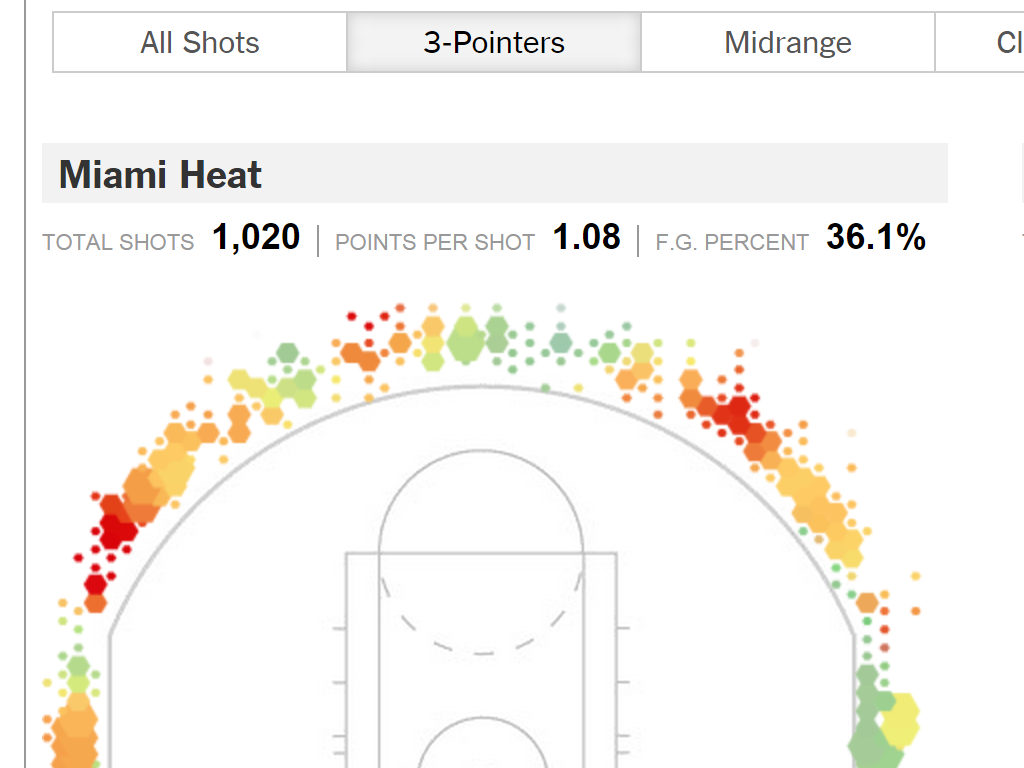
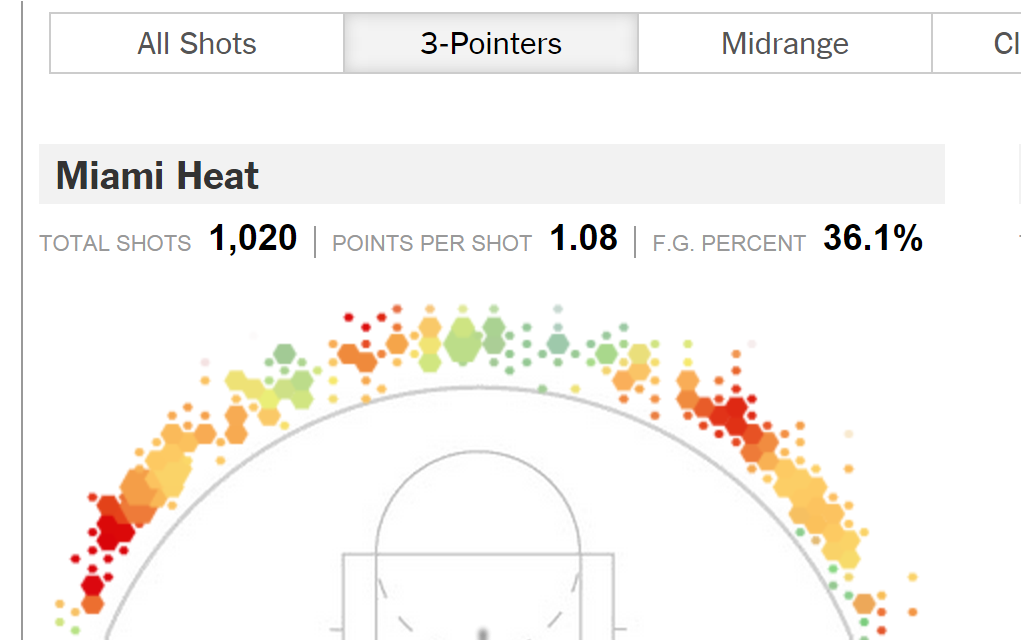
fix size image

diff --git a/index.html b/index.html
@@ -22,6 +22,9 @@
 	<script src="bower_components/codemirror/mode/javascript/javascript.js"></script>
 	<link rel="stylesheet" href="bower_components/codemirror/lib/codemirror.css"/>
 	<style>
+		textarea {
+			display: none;
+		}
 		.link-list {
 			font-size: 1.5em;
 		}
@@ -753,7 +756,7 @@ left: 49%;" src="pictures/grammar.jpg" alt=""/>
 			});
 </script>
 <section class="slide cover">
-	<textarea name="facet" id="facet_code" cols="30" rows="10">
+	<textarea  name="facet" id="facet_code" cols="30" rows="10">
 	var facet2x1 = {
 		unit: {
 			type: 'COORDS.RECT',
@@ -766,8 +769,6 @@ left: 49%;" src="pictures/grammar.jpg" alt=""/>
 			unit: [{
 				type: 'COORDS.RECT',
 				guide: {
-					padding: {l: 56, b: 32, r: 8, t: 8},
-					showGridLines: 'xy',
 					x: {label: 'Month'},
 					y: {label: {text: 'Count', padding: 36}}
 				},
@@ -915,9 +916,6 @@ left: 49%;" src="pictures/grammar.jpg" alt=""/>
 
 	chart.renderTo('#simpleScatterplot',{width:1024, height:620});
 </script>
-<section class="slide cover">
-	<img src="pictures/schema.svg" alt=""/>
-</section>
 <section class="slide">
 	<div>
 		<h2>Что используем</h2>
